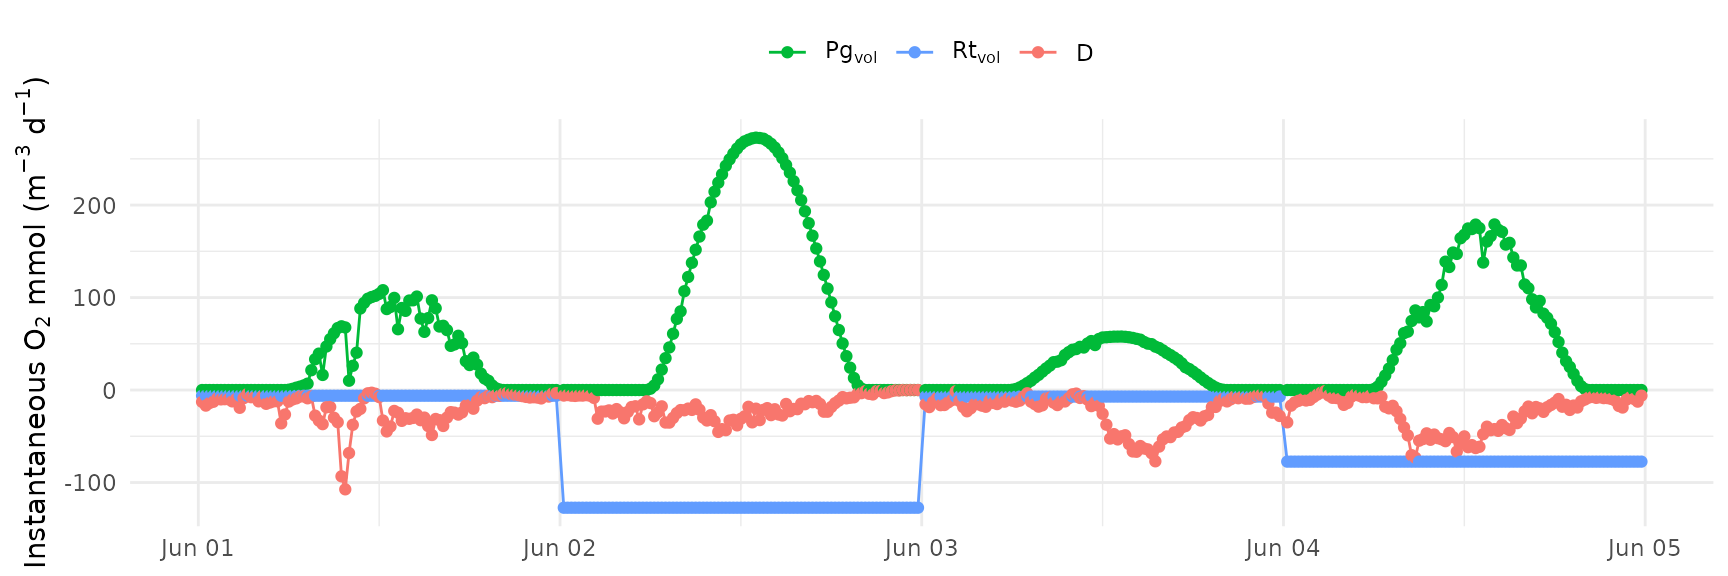
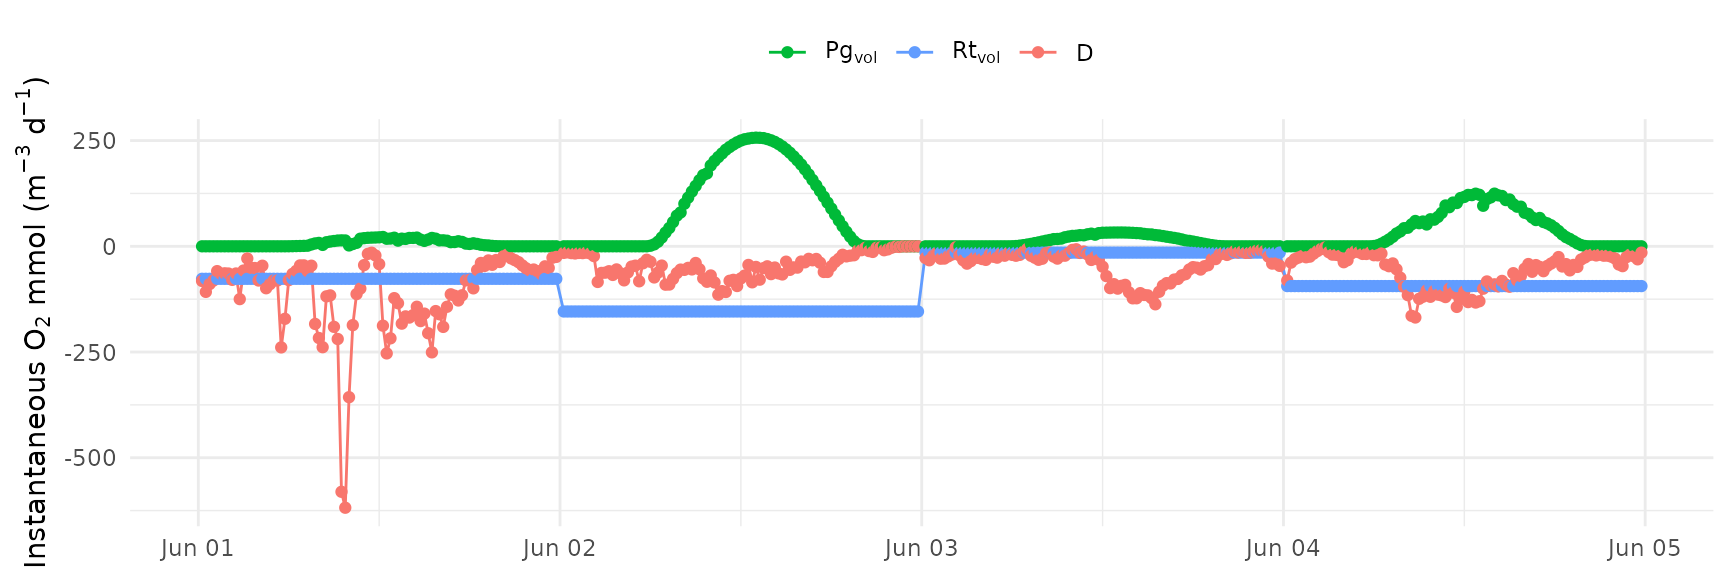
Built site for EBASE: 0.0.0.9003@4953f1c

diff --git a/reference/ebase.html b/reference/ebase.html
@@ -59,9 +59,9 @@
 <span>  <span class="va">H</span>,</span>
 <span>  <span class="va">interval</span>,</span>
 <span>  ndays <span class="op">=</span> <span class="fl">1</span>,</span>
-<span>  arng <span class="op">=</span> <span class="fu"><a href="https://rdrr.io/r/base/c.html" class="external-link">c</a></span><span class="op">(</span><span class="fl">0</span>, <span class="fl">2</span><span class="op">)</span>,</span>
-<span>  rvar <span class="op">=</span> <span class="fl">100</span>,</span>
-<span>  brng <span class="op">=</span> <span class="fu"><a href="https://rdrr.io/r/base/c.html" class="external-link">c</a></span><span class="op">(</span><span class="fl">0.8</span>, <span class="fl">1.2</span><span class="op">)</span>,</span>
+<span>  aprior <span class="op">=</span> <span class="fu"><a href="https://rdrr.io/r/base/c.html" class="external-link">c</a></span><span class="op">(</span><span class="fl">0.2</span>, <span class="fl">0.96</span><span class="op">)</span>,</span>
+<span>  rprior <span class="op">=</span> <span class="fu"><a href="https://rdrr.io/r/base/c.html" class="external-link">c</a></span><span class="op">(</span><span class="fl">20</span>, <span class="fl">10</span><span class="op">)</span>,</span>
+<span>  bprior <span class="op">=</span> <span class="fu"><a href="https://rdrr.io/r/base/c.html" class="external-link">c</a></span><span class="op">(</span><span class="fl">0.251</span>, <span class="fl">0.04</span><span class="op">)</span>,</span>
 <span>  interp <span class="op">=</span> <span class="cn">TRUE</span>,</span>
 <span>  maxgap <span class="op">=</span> <span class="fl">1e+06</span>,</span>
 <span>  inits <span class="op">=</span> <span class="cn">NULL</span>,</span>
@@ -93,16 +93,16 @@
 <dd><p>numeric for number of days in <code>dat</code> for optimizing the metabolic equation, see details</p></dd>
 
 
-<dt>arng</dt>
-<dd><p>numeric for proportional range of the prior distribution for the <em>a</em> parameter, see details</p></dd>
+<dt>aprior</dt>
+<dd><p>numeric vector of length two indicating the mean and standard deviation for the prior distribution of the <em>a</em> parameter, see details</p></dd>
 
 
-<dt>rvar</dt>
-<dd><p>numeric for the variance estimate of the prior distribution for the <em>r</em> parameter, see details</p></dd>
+<dt>rprior</dt>
+<dd><p>numeric vector of length two indicating the mean and standard deviation for the prior distribution of the <em>r</em> parameter, see details</p></dd>
 
 
-<dt>brng</dt>
-<dd><p>numeric for the proportional range of the prior distribution for the <em>b</em> parameter, see details</p></dd>
+<dt>bprior</dt>
+<dd><p>numeric vector of length two indicating the mean and standard deviation for the prior distribution of the <em>b</em> parameter, see details</p></dd>
 
 
 <dt>interp</dt>
@@ -163,7 +163,7 @@
 <p>The metabolic estimates are based on a mass balance equation in Grace et al. 2015 with the gas exchange estimate from Wanninkhof 2004.  It is similar to that provided by the BASEmetab R package at <a href="https://github.com/dgiling/BASEmetab" class="external-link">https://github.com/dgiling/BASEmetab</a>, with modifications to estimate different parameters. The equation optimized in the JAGS model is:</p>
 <p>$$ \frac{\delta{C_d}}{\delta{t}} = [\,aPAR]\, - [\,r]\, - \frac{1}{H}\left[-bU_{10}^2\left(\frac{s_c}{600} \right)^{-0.5} \left(C_{Sat} - C_d \right )\right]$$</p>
 <p>Gross production is provided by <em>aPAR</em>, respiration is provided by <em>r</em>, and gas exchange is provided by the remainder.  The likelihood of the parameters <em>a</em>, <em>r</em>, and <em>b</em> given the observed data are estimated from the JAGS model using prior distributions shown in the model file. At each time step, the change in oxygen concentration between time steps is calculated from the equation using model inputs and parameter guesses, and then a finite difference approximation is used to estimate modeled oxygen concentration.  The estimated concentration is also returned for comparison to observed as one measure of model performance.</p>
-<p>The prior distributions for the <em>a</em>, <em>r</em>, and <em>b</em> parameters are defined in the model file included with the package as uninformed uniform, normal, and uniform distributions, respectively.  The prior distribution for <em>a</em> as default varies uniformly across the range from zero to 200\<!-- % of an estimated mean of 0.2 (mmol/m3/d)(W/m2).  This range can be changed using the \code{arng} parameter, default being 0 to 2 for zero to 200\\%.  The prior distribution for the \emph{r} parameter follows a normal distribution with mean zero and variance equal to 100, but truncated to not go below zero.  This variance estimate can be changed with the \code{rvar} parameter.  The prior distribution for \emph{b} as default varies uniformly across the range from 80 to 120\\% of an estimated mean of 0.251 (cm/hr)/(m2/s2).  This range can be changed using the \code{brng} parameter, default being 0.8 to 1.2 for 80 to 120\\%.  Note that Wanninkhof (2014) states that the uncertainty of the \emph{b} parameter typically does not vary more than 20\%, although this range is generally unknown in estuarine systems. --></p>
+<p>The prior distributions for the <em>a</em>, <em>r</em>, and <em>b</em> parameters are defined in the model file included with the package as normal distributions with mean and standard deviations provided by the <code>aprior</code>, <code>rprior</code>, and <code>bprior</code> arguments. The default values were chosen based on the ability of EBASE to reproduce known parameters from a forward metabolism model.  An additional constraint is that all the prior distributions are truncated to be positive values as required by the core metabolism equation above.  Units for each parameter are (mmol/m3/d)(W/m2) for <code>a</code>, mmol/m3/d for <code>r</code>, and (cm/hr)/(m2/s2) for <code>b</code>.</p>
 <p>The <code>ndays</code> argument defines the number of days that are used for optimizing the above mass balance equation.  By default, this is done each day, i.e., <code>ndays= 1</code> such that a loop is used that applies the model equation to observations within each day, evaluated iteratively from the first observation in a day to the last.  Individual parameter estimates for <em>a</em>, <em>r</em>, and <em>b</em> are then returned for each day.  However, more days can be used to estimate the unknown parameters, such that the loop can be evaluated for every <code>ndays</code> specified by the argument.  The <code>ndays</code> argument will separate the input data into groups of consecutive days, where each group has a total number of days equal to <code>ndays</code>.  The final block may not include the complete number of days specified by <code>ndays</code> if the number of unique dates in the input data includes a remainder when divided by <code>ndays</code>, e.g., if seven days are in the input data and <code>ndays = 5</code>, there will be two groups where the first has five days and the second has two days. The output data from <code>ebase</code> includes a column that specifies the grouping that was used based on <code>ndays</code>.</p>
 <p>Missing values in the input data can also be interpolated prior to estimating metabolism.  This is the default behavior and it is the responsibility of the user to verify that these interpolated values are not wildly inaccurate.  Missing values are linearly interpolated between non-missing values at the time step specified by the value in <code>interval</code>.  This works well for small gaps, but can easily create inaccurate values at gaps larger than a few hours. The <code><a href="interp_plot.html">interp_plot</a></code> function can be used to visually assess the interpolated values.</p>
     </div>

diff --git a/articles/ebase-overview.html b/articles/ebase-overview.html
@@ -284,16 +284,16 @@
 <div class="section level4">
 <h4 id="changing-priors">Changing priors<a class="anchor" aria-label="anchor" href="#changing-priors"></a>
 </h4>
-<p>The prior distributions for the <span class="math inline">\(a\)</span>, <span class="math inline">\(r\)</span>, and <span class="math inline">\(b\)</span> parameters are defined in the model file included with the package as uninformed uniform, normal, and uniform distributions, respectively. The path to the model file can be found using the following:</p>
+<p>The prior distributions for the <span class="math inline">\(a\)</span>, <span class="math inline">\(r\)</span>, and <span class="math inline">\(b\)</span> parameters are defined in the model file included with the package as normal distributions with mean and standard deviations provided by the <code>aprior</code>, <code>rprior</code>, and <code>bprior</code> arguments in <code><a href="../reference/ebase.html">ebase()</a></code>. The location of the model file can be viewed as follows.</p>
 <div class="sourceCode" id="cb20"><pre class="downlit sourceCode r">
 <code class="sourceCode R"><span><span class="fu"><a href="https://rdrr.io/r/base/system.file.html" class="external-link">system.file</a></span><span class="op">(</span><span class="st">'ebase_model.txt'</span>, package <span class="op">=</span> <span class="st">'EBASE'</span><span class="op">)</span></span></code></pre></div>
-<p>The prior distribution for <span class="math inline">\(a\)</span> as default varies uniformly across the range from zero to 200% of an estimated mean of 0.2 (mmol/m3/d)(W/m2). This range can be changed using the <code>arng</code> parameter, default being 0 to 2 for zero to 200%. The prior distribution for the <span class="math inline">\(r\)</span> parameter follows a normal distribution with mean zero and variance equal to 100, but truncated to not go below zero. This variance estimate can be changed with the <code>rvar</code> parameter. The prior distribution for <span class="math inline">\(b\)</span> as default varies uniformly across the range from 80 to 120% of an estimated mean of 0.251 (cm/hr)/(m2/s2). This range can be changed using the <code>brng</code> parameter, default being 0.8 to 1.2 for 80 to 120%. Note that <span class="citation">Wanninkhof (2014)</span> states that the uncertainty of the <span class="math inline">\(b\)</span> parameter typically does not vary more than 20%, although this range is generally unknown in estuarine systems.</p>
-<p>Here, the prior range for the <span class="math inline">\(b\)</span> parameter is expanded to 70% and 130%.</p>
+<p>The default values for the priors were chosen based on the ability of EBASE to reproduce known parameters from a forward metabolism model. An additional constraint is that all the prior distributions are truncated to be positive values as required by the core metabolism equation above. Units for each parameter are (mmol/m3/d)(W/m2) for <span class="math inline">\(a\)</span>, mmol/m3/d for <span class="math inline">\(r\)</span>, and (cm/hr)/(m2/s2) for <span class="math inline">\(b\)</span>.</p>
+<p>Here, the prior distribution for the <span class="math inline">\(b\)</span> parameter is changed to have a mean of 0.4 and standard deviation of 1.</p>
 <div class="sourceCode" id="cb21"><pre class="downlit sourceCode r">
 <code class="sourceCode R"><span><span class="va">cl</span> <span class="op">&lt;-</span> <span class="fu"><a href="https://rdrr.io/r/parallel/makeCluster.html" class="external-link">makeCluster</a></span><span class="op">(</span><span class="fl">2</span><span class="op">)</span></span>
 <span><span class="fu"><a href="https://rdrr.io/pkg/doParallel/man/registerDoParallel.html" class="external-link">registerDoParallel</a></span><span class="op">(</span><span class="va">cl</span><span class="op">)</span></span>
 <span></span>
-<span><span class="va">res</span> <span class="op">&lt;-</span> <span class="fu"><a href="../reference/ebase.html">ebase</a></span><span class="op">(</span><span class="va">dat</span>, interval <span class="op">=</span> <span class="fl">900</span>, H <span class="op">=</span> <span class="fl">1.85</span>, progress <span class="op">=</span> <span class="cn">TRUE</span>, n.chains <span class="op">=</span> <span class="fl">2</span>, brng <span class="op">=</span> <span class="fu"><a href="https://rdrr.io/r/base/c.html" class="external-link">c</a></span><span class="op">(</span><span class="fl">0.7</span>, <span class="fl">1.3</span><span class="op">)</span><span class="op">)</span></span>
+<span><span class="va">res</span> <span class="op">&lt;-</span> <span class="fu"><a href="../reference/ebase.html">ebase</a></span><span class="op">(</span><span class="va">dat</span>, interval <span class="op">=</span> <span class="fl">900</span>, H <span class="op">=</span> <span class="fl">1.85</span>, progress <span class="op">=</span> <span class="cn">TRUE</span>, n.chains <span class="op">=</span> <span class="fl">2</span>, bprior <span class="op">=</span> <span class="fu"><a href="https://rdrr.io/r/base/c.html" class="external-link">c</a></span><span class="op">(</span><span class="fl">0.4</span>, <span class="fl">1</span><span class="op">)</span><span class="op">)</span></span>
 <span></span>
 <span><span class="fu"><a href="https://rdrr.io/r/parallel/makeCluster.html" class="external-link">stopCluster</a></span><span class="op">(</span><span class="va">cl</span><span class="op">)</span></span>
 <span></span>
